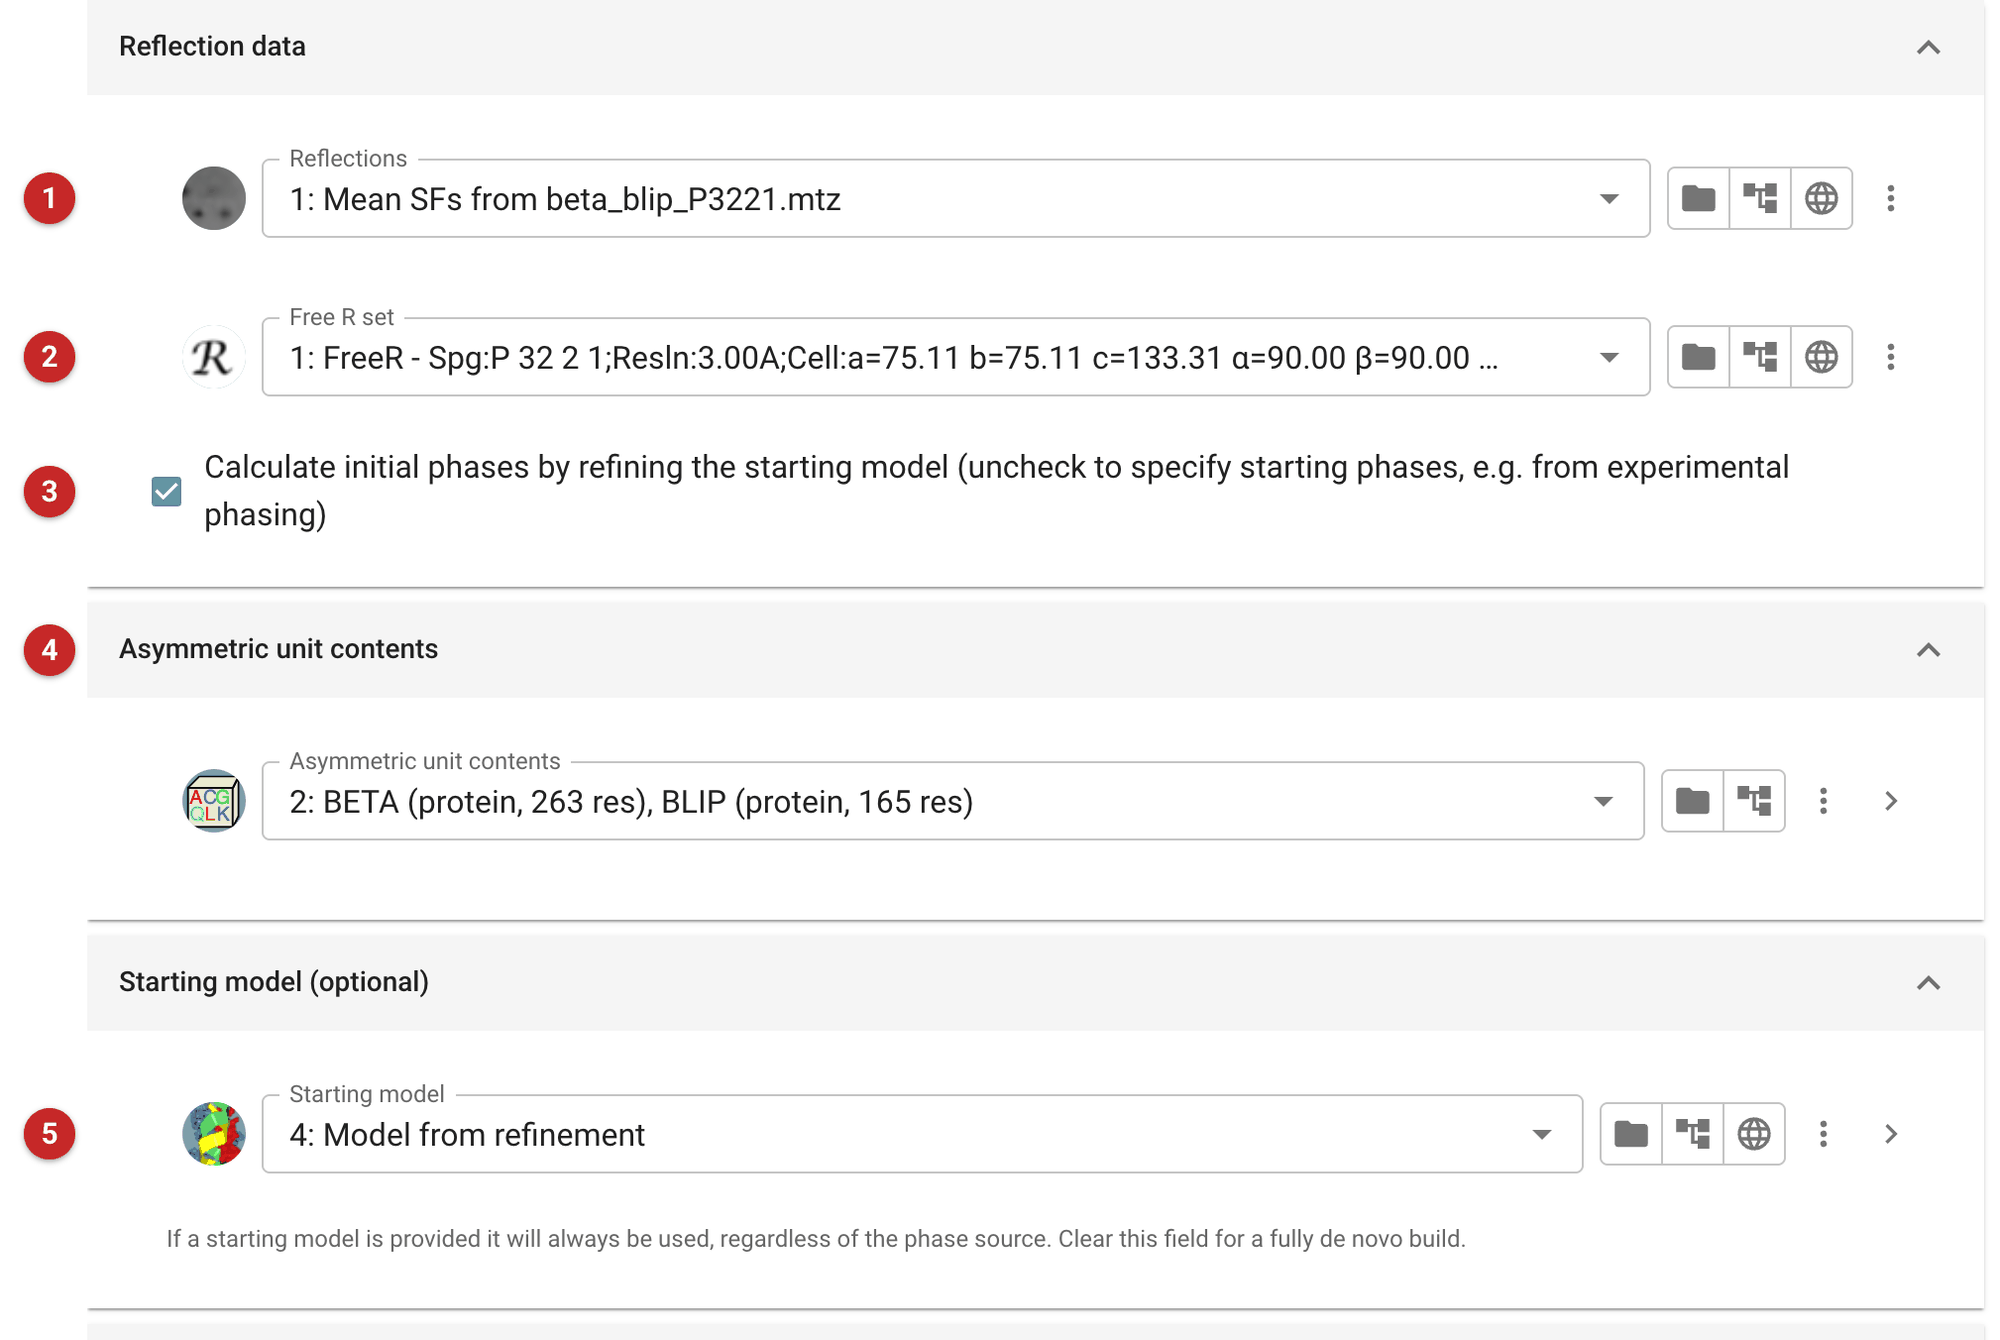
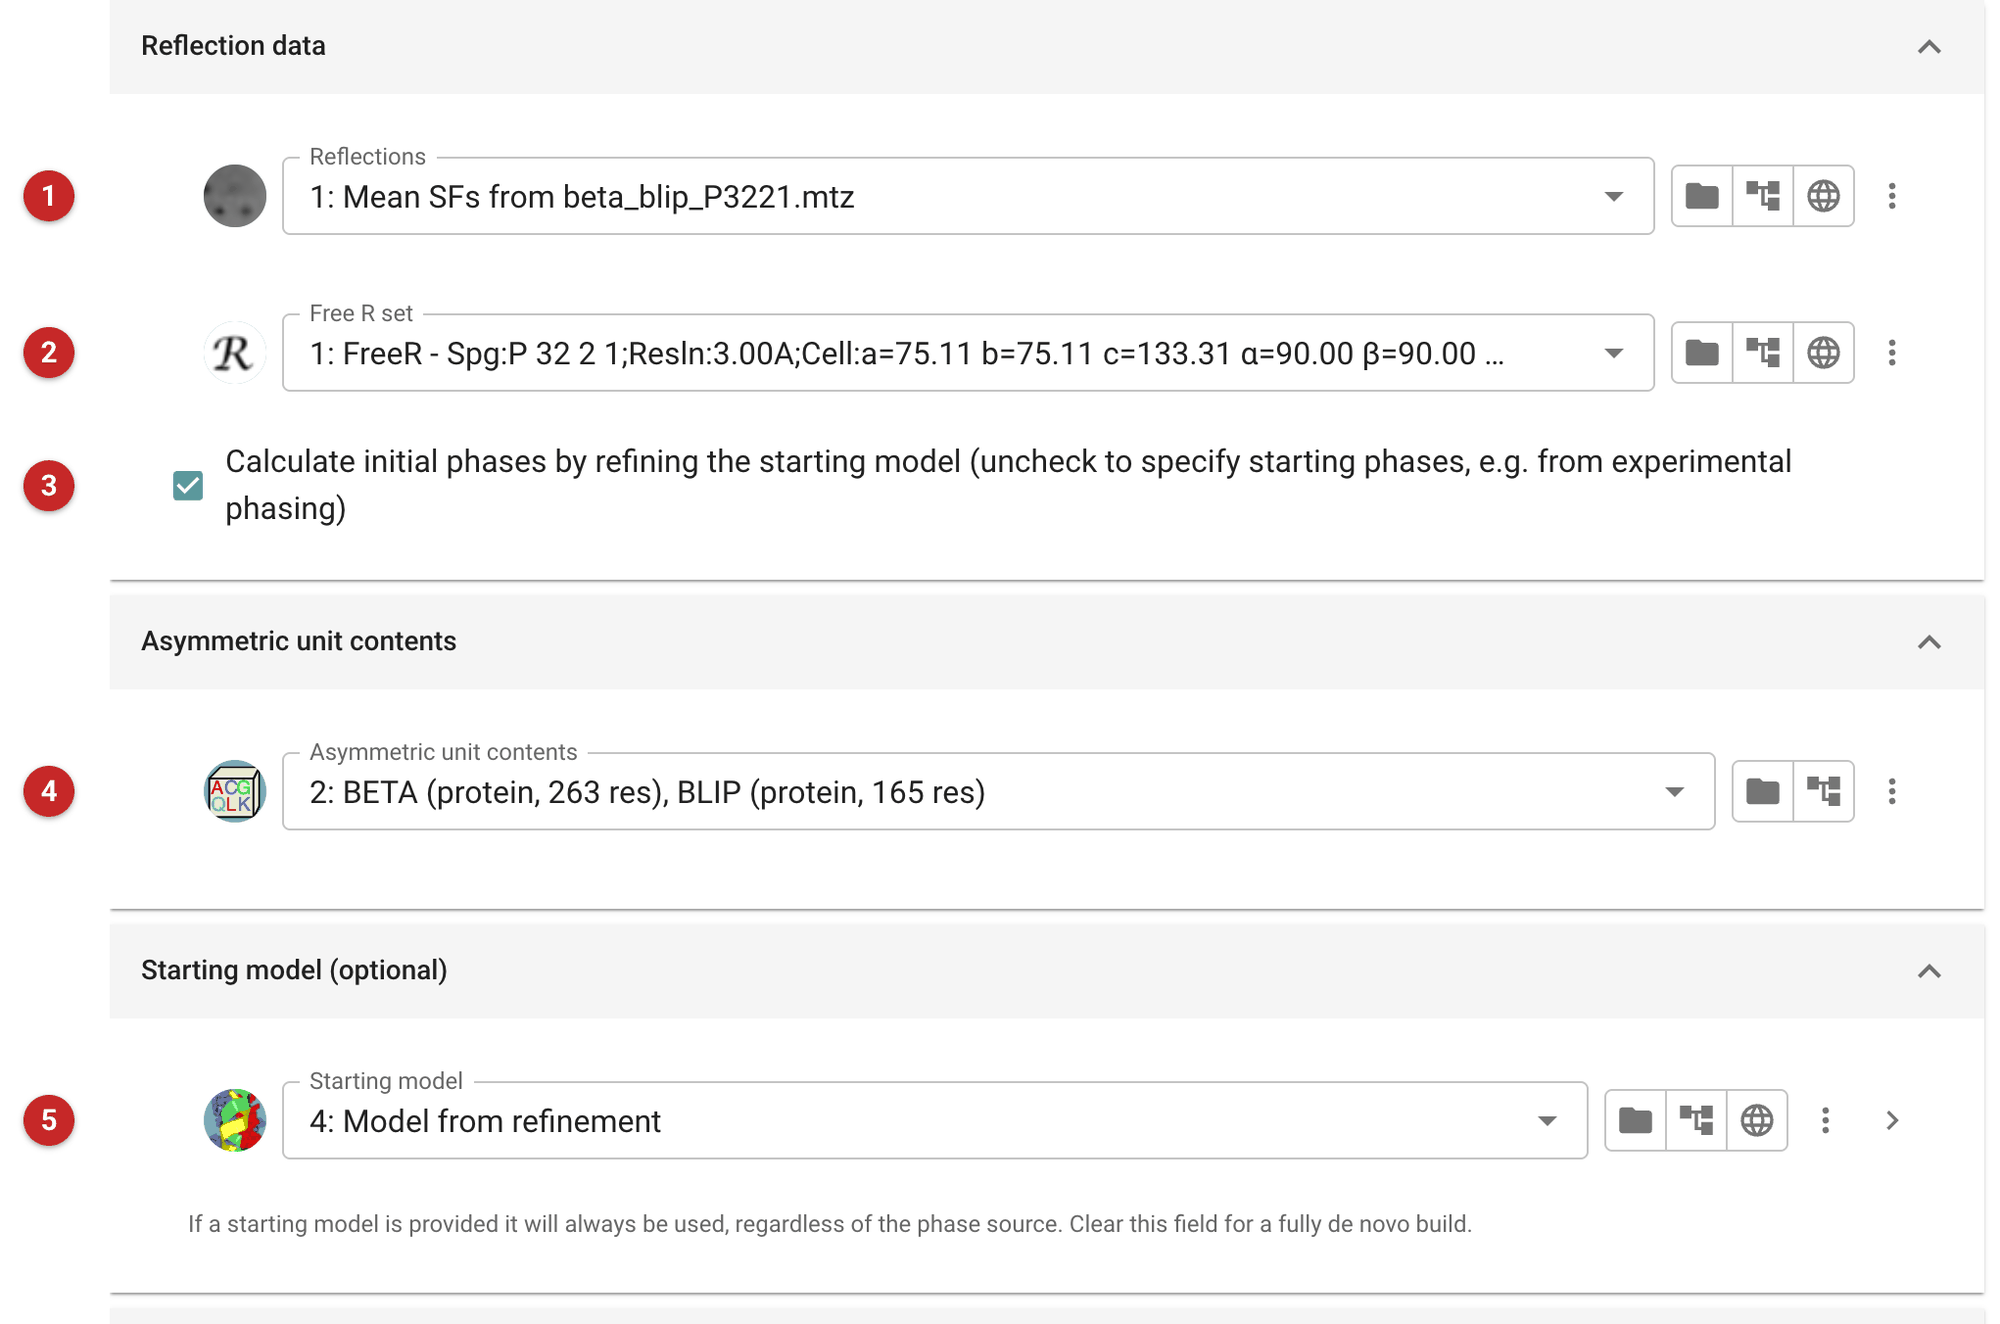
ModelCraft: its help and interface say R-work where ModelCraft uses R-work; judgement for validation
ModelCraft 6.1.1 keeps its best cycle and stops automatically by R-work,
uses unbiased phases until R-work 0.35, and rebuilds side chains whatever
the resolution; the help and the stop option said R-free and described a
gate that does not exist. The help's example is a build that made a
complete model worse, and now says so. validate_protein's judgement uses
MolProbity's own bounds and goals; status draft.

diff --git a/client/renderer/components/task/task-interfaces/modelcraft.tsx b/client/renderer/components/task/task-interfaces/modelcraft.tsx
@@ -125,7 +125,7 @@ const TaskInterface: React.FC<CCP4i2TaskInterfaceProps> = (props) => {
           width="auto"
           after={
             <InlineField
-              label="Stop automatically if R-free does not improve in"
+              label="Stop automatically if R-work does not improve in"
               hint="cycles"
             >
               <CCP4i2TaskElement

diff --git a/docs/user/source/tasks/modelcraft/index.rst b/docs/user/source/tasks/modelcraft/index.rst
@@ -27,8 +27,9 @@ but with the following enhancements:
 Pipeline
 ========
 
-If a starting model was provided, ModelCraft refines it
-with shift-field refinement using SHEETBEND followed by 10 cycles of REFMAC.
+If a starting model was provided, ModelCraft refines it with 10 cycles of
+REFMAC, both with and without shift-field refinement by SHEETBEND first,
+and keeps whichever gives the lower R-free.
 A single cycle of ModelCraft then consists of the following seven steps:
 
 1. **Prune incorrect protein chains, residues and side chains**
@@ -52,13 +53,12 @@ A single cycle of ModelCraft then consists of the following seven steps:
    As in the third step, the model with waters is only accepted
    if it has a better R-free than the model without waters.
 
-The best model from all cycles is chosen as the output.
-If the resolution is better than 2.5 Å
-and R-work is better than 30% at the end of the pipeline,
-ModelCraft rebuilds side chains that are missing or predicted to be incorrect
-using COOT followed by 5 cycles of REFMAC.
-This side chain rebuilding step is performed once at the end of the pipeline
-to fix side chains.
+The best model from all cycles is chosen as the output: best by R-work,
+not R-free (ModelCraft 6.1.1; its own help says R-free), so the output can
+have a higher R-free than an earlier cycle. At the end of the pipeline
+ModelCraft rebuilds side chains that are missing or predicted to be
+incorrect, using COOT followed by 5 cycles of REFMAC, whatever the
+resolution.
 
 Input
 =====
@@ -70,7 +70,7 @@ crystal. By default the phases come from refining the starting model
 **(3)**, the usual case after molecular replacement. After experimental
 phasing, untick this and give the phases instead; if they are unbiased
 (experimental), say so, and they are used as restraints in refinement
-until the model is good enough, R-free 35% or better, not to need them.
+until the model is good enough, R-work 35% or better, not to need them.
 There is no need to run density modification first: ModelCraft runs
 Parrot itself.
 
@@ -84,11 +84,11 @@ atoms you are confident of. Clear it for a build from the phases alone.
 
 |options|
 
-ModelCraft runs for up to 25 cycles, stopping early when R-free has not
-improved for 4 **(1)**; untick the stop to run them all. The basic
-pipeline **(2)** is quicker: it builds with Buccaneer and Nautilus and
-refines with REFMAC, running Parrot and Sheetbend on the first cycle only,
-and sets the cycles to 5. Build selenomethionine instead of methionine for
+ModelCraft runs for up to 25 cycles, stopping early when R-work (not
+R-free) has not improved for 4 **(1)**; untick the stop to run them all.
+The basic pipeline **(2)** is quicker: it builds with Buccaneer and
+Nautilus and refines with REFMAC, running Parrot on the first cycle only;
+choosing it here also sets the cycles to 5. Build selenomethionine instead of methionine for
 SeMet protein **(3)**, and use twinned refinement only when you are sure
 the crystal is twinned **(4)**. The optional steps of the pipeline
 described above can each be turned off **(5)**.
@@ -110,8 +110,13 @@ both chains whole (263 and 165 residues) and reached R-work 0.26 and
 R-free 0.38 at 3.0 Å. It also built two short fragments, 8 residues each,
 that the AU contents do not account for: pieces built into density that
 belongs to something else, or to nothing. Look at anything the model holds
-beyond its expected contents before refining further. More cycles, the
-default 25 with automatic stopping, would usually do better.
+beyond its expected contents before refining further.
+
+This is also a run that did not help. The model it was given was complete
+and refined to R-free 0.343; ModelCraft's output is worse, 0.382 (its first
+cycle reached 0.359, but the output is chosen by R-work). A model that
+already accounts for the asymmetric unit needs refinement, not rebuilding:
+compare the output's R-free with the input's before going on from it.
 
 Reference
 =========
